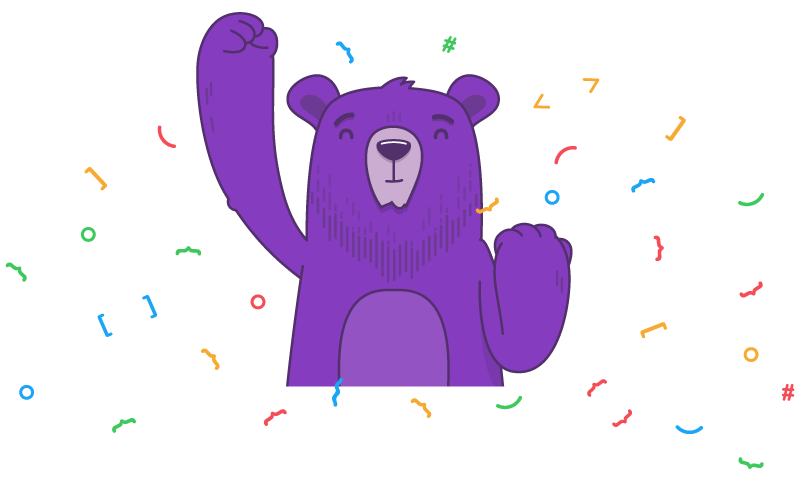
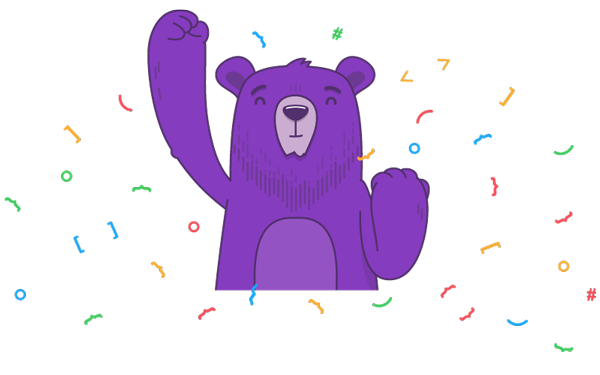
revised new user prompt inline environment

diff --git a/client/assets/styles/scss/components/help.scss b/client/assets/styles/scss/components/help.scss
@@ -14,6 +14,23 @@
   }
 }
 
+.btn-help {
+  color: $gray-light;
+
+  @include media(xxs) {
+    left: 0;
+  }
+
+  &:hover {
+    color: lighten($blue,10%);
+  }
+
+  &:active,
+  &.active {
+    color: $blue;
+  }
+}
+
 .help-top-card,
 %help-top-card {
   font-size: 15px;
@@ -112,67 +129,39 @@
 
 .triggered-help-item {
   border-bottom: 1px solid rgba($blue-light,.4);
-  color: rgba($blue,.8);
-  font-size: 15px;
-  line-height: 18px;
-  padding: 12px 0;
+  line-height: 1.2;
+  overflow: visible;
+  padding: 15px 15px 15px 39px;
   position: relative;
 
   // "x" button for triggered help items
   .btn-icon {
-    color: rgba($blue,.45);
-    font-size: 15px;
-    height: 21px;
-    left: -9px;
+    height: 24px;
+    left: 6px;
+    opacity: .5;
     padding: 0;
     position: absolute;
     top: 12px;
-    width: 21px;
+    width: 24px;
 
     &:hover {
-      color: rgba($blue,.75);
+      opacity: .75;
     }
 
     &:active {
-      color: $blue;
-    }
-
-    .iconnables {
-      height: 18px;
-      width: 18px;
+      opacity: 1;
     }
   }
 
-  // text in triggered help items
-  .p {
-    float: left;
-    margin-left: 15px;
-    width: 240px;
-  }
-
-  // "show me" button
-  .btn-sm {
-    background-color: $white;
-    border: $input-border solid $blue;
-    color: $blue;
-    float: right;
-    font-weight: $weight-bold;
-    margin: 1px 3px;
-
-    &:hover {
-      border-color: rgba($blue,.7);
-    }
-
-    &:active {
-      border-color: $blue;
-    }
+  // 'show me' btn
+  .btn-xs {
+    margin-left: 9px;
   }
 }
 
 .help-lists-wrapper {
   max-height: calc(100vh - 120px);
   overflow-y: auto;
-  padding: 0 12px;
 }
 
 .general-help-container {

diff --git a/client/assets/styles/scss/layout/environment.scss b/client/assets/styles/scss/layout/environment.scss
@@ -3,6 +3,81 @@
   flex-direction: column;
   min-height: 100%;
   padding: 15px;
+
+  // new user well
+  .well {
+    margin: 160px auto 30px;
+    max-width: 600px;
+    overflow: visible;
+    padding: 45px 30px 21px;
+    position: relative;
+
+    @include media(xxs) {
+      margin-top: 135px;
+      padding: 45px 15px 15px;
+    }
+
+    // button wrapper
+    > .grid-block {
+      margin: 0 auto;
+
+      @include media(xxs) {
+        flex-direction: row;
+      }
+    }
+
+    .btn + .btn {
+      margin-left: 6px;
+
+      @include media(xxs) {
+        margin-top: 0;
+      }
+    }
+
+    // runnabear
+    .img {
+      left: 0;
+      margin: 0 auto;
+      position: absolute;
+      right: 0;
+      top: -146px;
+
+      @include media(xxs) {
+        height: auto;
+        top: -117px;
+        width: 240px;
+      }
+    }
+
+    .icons-close {
+      cursor: pointer;
+      pointer-events: auto; // reset from .iconnables
+      position: absolute;
+      right: 15px;
+      top: 18px;
+
+      &:hover {
+        color: $red;
+      }
+
+      &:active {
+        color: $red-dark;
+      }
+    }
+
+    .h1 {
+      font-size: 24px;
+
+      @include media(xxs) {
+        font-size: 21px;
+      }
+    }
+
+    .p {
+      margin: 9px auto 15px;
+      max-width: 420px;
+    }
+  }
 }
 
 // styles specific to notifications in environment

diff --git a/client/assets/styles/scss/components/buttons/buttons.scss b/client/assets/styles/scss/components/buttons/buttons.scss
@@ -150,28 +150,6 @@
   }
 }
 
-// help
-.btn-help {
-  background: rgba($white,.6);
-  border: 1px solid $gray-light;
-  border-radius: 50%;
-  color: $gray;
-  height: 24px;
-  text-decoration: none;
-  width: 24px;
-
-  &:hover {
-    border-color: currentColor;
-    color: rgba($blue,.6);
-  }
-
-  &:active,
-  &.active {
-    border-color: currentColor;
-    color: $blue;
-  }
-}
-
 .btn-close {
   border-radius: 50%;
 
@@ -252,16 +230,19 @@
   color: $gray-light;
 
   &.btn:not([disabled]):not(.disabled) {
+    background: $blue;
+    border-color: $blue-dark;
+    color: $white;
 
     &:hover,
     &.hover {
-      color: $blue;
+      background: lighten($blue,10%);
     }
 
     &:active,
     &.active,
     &.active:hover {
-      color: $blue;
+      background: $blue;
     }
   }
 }

diff --git a/client/services/featureFlagService.js b/client/services/featureFlagService.js
@@ -15,7 +15,6 @@ function featureFlags(
     emptyFolder: false, // shows empty folder markup
     fullScreen: false,  // toggles full screen
     fullScreenToggle: false,  // toggles the button that toggles full screen
-    gettingStartedModal: false, // modal for new users
     hostnameNotifications: false,
     hostnameTool: false,
     imAfraidOfTheDark: false, // toggles theme
@@ -27,6 +26,7 @@ function featureFlags(
     multilineFnR: false,
     nameContainer: false,
     navListFilter: false,
+    newUserPrompt: false, // modal for new users
     newVerificationFlow: true,
     newVerificationFlowStackSelector: true,
     noBuildLogs: true,

diff --git a/client/assets/styles/scss/globals/var.scss b/client/assets/styles/scss/globals/var.scss
@@ -57,7 +57,7 @@ $red-dark: #e62932; // desaturate(darken($red,10),7);
 $blue: #0ca6f2; // previously #2ab0f6;
 $blue-light: #8bd5f9; // previously #86cff6;
 $blue-lighter: #f5fcff; // previously #f1faff;
-$blue-dark: #1e7daf;
+$blue-dark: #0a9be2;
 
 // **********
 // log themes

diff --git a/client/assets/styles/scss/index.scss b/client/assets/styles/scss/index.scss
@@ -131,7 +131,6 @@
 @import "modals/modals-edit";
 @import "modals/modals-edit-ace";
 @import "modals/modals-error";
-@import "modals/modals-getting-started";
 @import "modals/modals-integrations";
 @import "modals/modals-invite";
 @import "modals/modals-invite-admin";
